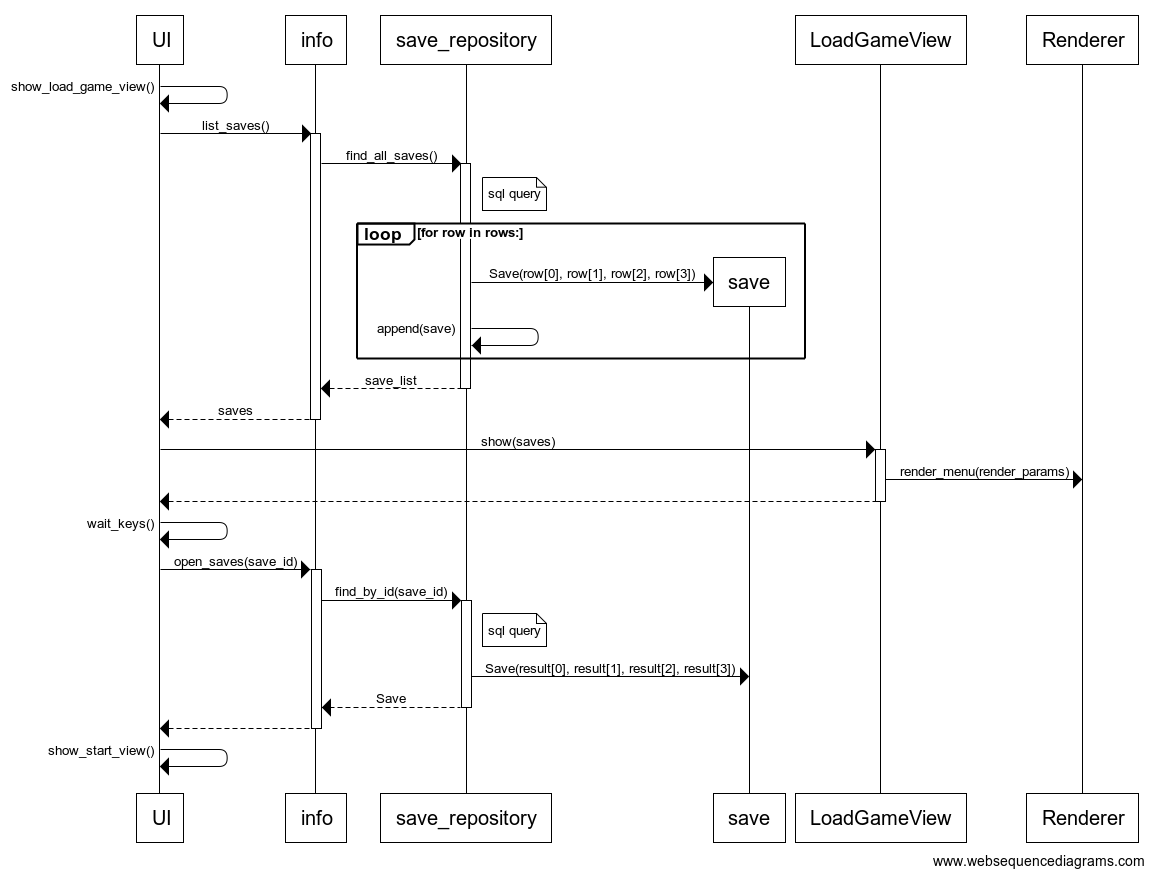
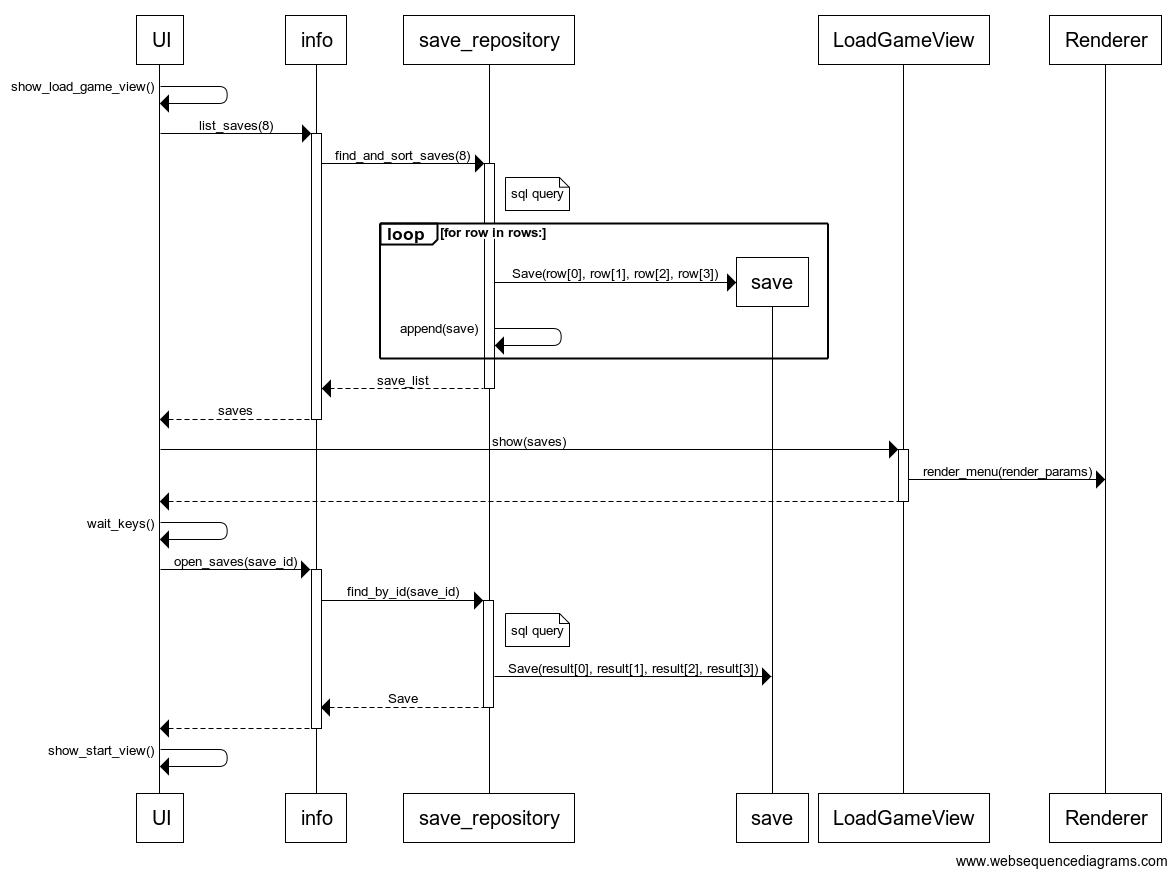
Update documentation

diff --git a/src/services/game_service.py b/src/services/game_service.py
@@ -46,7 +46,7 @@ class GameService:
 
 
         Args:
-            level (Level): Level object.
+            level (int): Level number
         """
 
         self.playing = True

diff --git a/dokumentaatio/arkkitehtuuri.md b/dokumentaatio/arkkitehtuuri.md
@@ -13,37 +13,55 @@ Ohjelman pakkausrakenne koostuu (Korjaa RenderService -nimi ja paranna kuvan laa
 
 ## UI
 
-Käyttöliittymä pitää sisällään seuraavat näkymät:
+Käyttöliittymästä vastaa paketti `ui`, joka pitää sisällään seuraavat näkymät:
 
 1. Aloitusvalikko `MenuView`
-2. Asetukset `SetupView` (työn alla)
+2. Asetukset `SetupView`
 3. Uuden pelin aloittamisnäkymä `NewGameView`
 4. Aiemman pelin latausnäkymä `LoadGameView`
 5. Pelin käynnistysnäkymä `StartView`
 6. Game Over näkymä `GameOverView`
 7. Level Completed näkymä `FinishView`
 
-Jokainen näistä on toteutettu omana luokkana. Näkymien näyttämisestä vastaa `UI` -luokka, joka käyttää apunaan näkymien piirtämisestä vastaavaa `Renderer` -luokkaa.
+Jokainen näistä on toteutettu omana luokkana. Näkymien näyttämisestä vastaa [UI](https://github.com/TopiasHarjunpaa/ot-harjoitustyo/blob/main/src/ui/ui.py) -luokka, joka käyttää apunaan näkymien piirtämisestä vastaavaa luokkaa [Renderer](https://github.com/TopiasHarjunpaa/ot-harjoitustyo/blob/main/src/ui/renderer.py).
+
 
 ## Sovelluslogiikka
 
-Sovelluslogiista vastaa paketti `Services`, joka pitää sisällään kolme päätehtävää:
+Sovelluslogiista vastaa paketti `services`, joka pitää sisällään kolme päätehtävää:
 
 1. Pelin ja tason toiminnallisuudet
 2. Tiedon välittämisen
 3. Äänen ja musiikin toistamisen.
 
-Pelin ja tason toiminnallisuuksista vastaavat luokat `GameService` sekä `LevelService`. Nämä huolehtivat pelitilanteen päivittämisestä sekä mahdollisesta pelin loppumisesta kuoleman tai maalin pääsemisen seurauksena.
+Pelin ja tason toiminnallisuuksista vastaavat luokat [GameService](https://github.com/TopiasHarjunpaa/ot-harjoitustyo/blob/main/src/services/game_service.py) sekä [LevelService](https://github.com/TopiasHarjunpaa/ot-harjoitustyo/blob/main/src/services/level_service.py). Nämä huolehtivat pelitilanteen päivittämisestä sekä mahdollisesta pelin loppumisesta kuoleman tai maalin pääsemisen seurauksena. Näiden keskeisiä toiminnallisuuksia ovat mm:
 
-Tiedon välittämisestä vastaa `InformationService` luokka, joka pääsee tietoihin käsiksi tallennuksesta vastaavan `SaveRepository` -luokan kautta.
+* GameService luokan `start_gameloop(level)`, joka käynnistää peliloopin, alustaa uuden taso-olion tasonumeron perusteella, seuraa pelaajan komentoja sekä taso-olion tilaa.
+* LevelService luokan `update()`, joka päivittää pelissä näytettävät objektit, ylläpitää pelitilannetta, laskee tasopisteitä sekä välittää tiedon pelin jatkumisesta `GameService` -luokalle.
+* LevelService luokan metodit `player_is_alive()`, `handle_jump()` sekä `handle_goal()`, jotka tarkastavat törmäyksiä eri objektien välillä sekä mahdollistavat oikeat toimenpiteet näiden perusteella.
 
-Äänen ja musiikin toistamisesta vastaa `AudioService` luokka, joka huolehtii oikean ääniefektin tai musiikin toistamisesta tilanteeseen sopivalla tavalla.
+Tiedon välittämisestä vastaa [InformationService](https://github.com/TopiasHarjunpaa/ot-harjoitustyo/blob/main/src/services/information_service.py) -luokka, joka pääsee tietoihin käsiksi tallennuksesta vastaavan `SaveRepository` -luokan kautta. `InformationService` tarjoaa käyttöliittymän `ui` -luokalle palvelut tiedon hakemista ja tallentamista varten. Keskeisiä toiminnallisuuksia ovat mm:
+
+* `create_new_save(nickname)`
+* `open_save(save_id)`
+* `update_save(progress, save_id)`
+* `get_progress_information()`
+* `list_saves(number_of_saves)`
+
+Äänen ja musiikin toistamisesta vastaa [AudioService](https://github.com/TopiasHarjunpaa/ot-harjoitustyo/blob/main/src/services/information_service.py) -luokka, joka huolehtii oikean ääniefektin tai musiikin toistamisesta tilanteeseen sopivalla tavalla. Keskeisiä toiminnallisuuksia ovat mm:
+
+* `play_music(index)`
+* `set_music_on()` sekä `set_music_off()`
+* `set_sound_effects_on()` sekä `set_sound_effects_off()`
+* `get_audio_information()`
 
 ## Tallennus
 
-Tiedon tallentamisesta ja hakemisesta SQLite-tietokannasta huolehtii `SaveRepository` luokka.
+Tiedon tallentamisesta ja hakemisesta SQLite-tietokannasta huolehtii [SaveRepository](https://github.com/TopiasHarjunpaa/ot-harjoitustyo/blob/main/src/repositories/save_repository.py) -luokka. Sovellus hyödyntää yhtä tietokohdetta `Save`, joka pitää sisällään sovelluksen kannalta tarvittavan informaation, kuten pelitallenteen nimimerkin, edistymisen sekä luomispäivämäärän. 
 
-## Päätoiminnallisuudet
+SQLite tietokannassa vastaava tietokohde tallennetaan tauluun nimeltä `saves`. Taulun luomisesta vastaa [initialize_database.py](https://github.com/TopiasHarjunpaa/ot-harjoitustyo/blob/main/src/initialize_database.py). `SaveRepository` -luokka huolehtii tietokantakyselyistä tähän tauluun sekä välittää tietoa eteenpäin `Save` -olioiden avulla sovelluslogiikan `InformationService`:lle.
+
+## Sovelluksen Päätoiminnallisuudet
 
 Ohjelman päätoiminnallisuudet kuvattuna sekvenssikaavioiden avulla:
 
@@ -53,7 +71,7 @@ Ohjelman alustaminen tapahtuu tiedostossa [index.py](https://github.com/TopiasHa
 
 <img src="https://github.com/TopiasHarjunpaa/ot-harjoitustyo/blob/main/dokumentaatio/kuvat/sekvenssi-ohjelman-alustaminen.png" width="1000">
 
-Luokkien alustaminen tapahtuu melko suoraviivaisesti.`InformationService` -luokan yhteydessä luodaan samalla tietokantayhteys sekä alustetaan `SaveRepository`, joka huolehtii tietokantakyselyistä pelin ainoaan tietokantatauluun liittyen. Peli käynnistyy kutsumalla `UI` -luokan metodia `start_menu()`.
+Luokkien alustaminen tapahtuu melko suoraviivaisesti. `InformationService` -luokan yhteydessä luodaan samalla tietokantayhteys sekä alustetaan `SaveRepository`, joka huolehtii tietokantakyselyistä pelin ainoaan tietokantatauluun liittyen. Peli käynnistyy kutsumalla `UI` -luokan metodia `start_menu()`.
 
 ### Peliluokkien alustaminen
 
@@ -61,7 +79,7 @@ Aiemmassa sekvenssikaaviossa kuvattiin ohjelman alustaminen sekä käynnistämin
 
 <img src="https://github.com/TopiasHarjunpaa/ot-harjoitustyo/blob/main/dokumentaatio/kuvat/sekvenssi-peliluokkien-alustaminen.png" width="1000">
 
-`LevelService` -luokan alustamiseen tarvitaan näytön mitat sekä tasonumero. Vapaaehtoisena parametrina voidaan antaa myös audioluokka.`LevelService` -luokka alustaa peliin liittyvät objektit luokan `Sprites` avulla. `Sprites` luo tasonumeron perusteella kyseiseen tasoon liittyvät objektit kuten lattian, esteet sekä pelihahmon. `GameService` -luokan alustamista varten `UI` välittää saamansa parametrit `InformationService`:ä lukuunottamatta.
+`LevelService` -luokan alustamiseen tarvitaan näytön mitat sekä tasonumero. Vapaaehtoisena parametrina voidaan antaa myös audioluokka. `LevelService` -luokka alustaa peliin liittyvät objektit luokan `Sprites` avulla. `Sprites` luo tasonumeron perusteella kyseiseen tasoon liittyvät objektit kuten lattian, esteet sekä pelihahmon. `GameService` -luokan alustamista varten `UI` välittää saamansa parametrit `InformationService`:ä lukuunottamatta.
 
 ### Menunäkymä
 
@@ -69,38 +87,72 @@ Ensimmäiseksi pelin käynnistämisen jälkeen näytetään menunäkymä. Tämä
 
 <img src="https://github.com/TopiasHarjunpaa/ot-harjoitustyo/blob/main/dokumentaatio/kuvat/sekvenssi-menu.png" width="1000">
 
-Aluksi pyydetään `AudioService` -luokkaa käynnistämään menunäkymän kappale (audioluokka on saanut audiotiedostojen polut alustamisen yhteydessä). Seuraavaksi haetaan TOP3 parhaat tulokset tietokannasta. `InformationService` kutsuu metodilla `find_all_saves()` tietokantakyselyjä tekevää `save_repository` -oliota hakemaan tulokset tietokannasta. Kolmesta parhaasta tuloksesta luodaan `Save` oliot ja palautetaan muuttujaan `records`. Seuraavaksi kutsutaan `MenuView` -luokan metodia `show()`, jolle annetaan parametrina aiemmin haetut tulokset. Tämän jälkeen `MenuView` -luokka erittelee tulokset ja kutsuu `Renderer` -luokan metodia `render_menu()`, joka lopulta renderöi menunäkymän ruudulle.
+Aluksi pyydetään `AudioService` -luokkaa käynnistämään menunäkymän kappale (audioluokka on saanut audiotiedostojen polut alustamisen yhteydessä). Seuraavaksi haetaan TOP3 parhaat tulokset tietokannasta. `InformationService` kutsuu metodilla `get_top_records(3)` tietokantakyselyjä tekevää `save_repository` -oliota hakemaan tulokset tietokannasta. Kolmesta parhaasta tuloksesta luodaan `Save` oliot ja palautetaan muuttujaan `records`. Seuraavaksi kutsutaan `MenuView` -luokan metodia `show()`, jolle annetaan parametrina aiemmin haetut tulokset. Tämän jälkeen `MenuView` -luokka erittelee tulokset ja kutsuu `Renderer` -luokan metodia `render_menu()`, joka lopulta renderöi menunäkymän ruudulle.
 
-Kun menunäkymä on ruudulla, niin jäädään odottamaan käyttäjän syötettä. Mikäli käyttäjä painaa näppäintä `n`, niin siirrytään näyttämään uusipeli -näkymä. Mikäli käyttäjä painaa näppäintä `l`, niin siirrytään näyttämään lataapeli -näkymä.
+Kun menunäkymä on ruudulla, niin jäädään odottamaan käyttäjän syötettä: 
+* Mikäli käyttäjä painaa näppäintä `n`, niin siirrytään näyttämään uusipeli -näkymä.
+* Mikäli käyttäjä painaa näppäintä `l`, niin siirrytään näyttämään lataapeli -näkymä.
+* Mikäli käyttäjä painaa näppäintä `s`, niin siirrytään näyttämään asetusnäkymä.
 
 ### Uusipeli -näkymä
 
-lisää tähän tekstiä...
+Uusipeli -näkymä aloitetaan kutsumulla `UI` -luokan metodia `show_new_game_view()`. Seuraava sekvenssikaavio esittää uusipeli -näkymän etenemisen:
 
 <img src="https://github.com/TopiasHarjunpaa/ot-harjoitustyo/blob/main/dokumentaatio/kuvat/sekvenssi-new.png" width="1000">
 
-lisää tähän tekstiä...
+Aluksi kutsutaan `NewGameView` -luokan metodia `show()`, jolle annetaan parametrina tyhjä nimimerkki (neljällä tähtimerkillä) sekä continue_textin väriksi harmaa väri. Tämän jälkeen `NewGameView` -luokka  kutsuu `Renderer` -luokan metodia `render_menu()`, joka renderöi uusipeli -näkymän ruudulle.
+
+Seuraavaksi odotetaan käyttäjän syötettä tallennustiedon nimimerkiksi. Kunkin syötetyn tai pyyhityn kirjaimen jälkeen näkymä renderöidään uudelleen yllä kuvatulla tavalla. Continue_textin valinta aktivoidaan ja sen väri muutetaan valkoiseksi, kun käyttäjä on syöttänyt kaikki nimimerkin neljäkirjainta.
+
+Tämän jälkeen luodaan uusi tallennustiedosta nimimerkin avulla `InformationService` -luokan `create_new_save(nickname)` -metodin avulla, joka edelleen kutsuu `save_repository` -oliota tekemään tallennuksen tietokantaan sekä palauttamaan tallennustiedon `Save` oliona.
+
+Lopuksi kutsutaan käynnistäpeli -näkymän metodia `show_start_view()`.
 
 ### Lataapeli -näkymä
 
-lisää tähän tekstiä...
+Lataapeli -näkymä aloitetaan kutsumulla `UI` -luokan metodia `show_load_game_view()`. Seuraava sekvenssikaavio esittää lataapeli -näkymän etenemisen:
 
 <img src="https://github.com/TopiasHarjunpaa/ot-harjoitustyo/blob/main/dokumentaatio/kuvat/sekvenssi-load.png" width="1000">
 
-lisää tähän tekstiä...
+Aluksi pyydetään `InformationService` -luokkaa hakemaan ja järjestämään 8 ensimmäista tallennusoliota parhaimman etenemisen perusteella. Tämä tapahtuu metodilla `list_saves(8)`, joka edelleen kutsuu `save_repository` -olion metodin `find_and_sort_saves(8)` avulla hakemaan tulokset tietokannasta. Tuloksena palautetaan lista `Save` olioita, jotka talletetaan muuttujaan `saves`. Seuraavaksi kutsutaan `LoadGameView` -luokan metodia `show()`, jolle annetaan parametrina aiemmin haetut tulokset. Tämän jälkeen `LoadGameView` -luokka erittelee tulokset ja kutsuu `Renderer` -luokan metodia `render_menu()`, joka lopulta renderöi lataapeli -näkymän ruudulle.
+
+Kun lataapeli -näkymä on ruudulla, niin jäädään odottamaan käyttäjän syötettä. Käyttäjä valitsee haluamansa tallennuksen, jonka jälkeen kyseinen tallennustiedosto haetaan tietokannasta ja palautetaan takaisin `Save` oliona `InformationService` -luokan sekä `save_repository` -olion avulla.
+
+Lopuksi kutsutaan käynnistäpeli -näkymän metodia `show_start_view()`.
+
+### Asetusnäkymä
+
+Asetusnäkymä aloitetaan kutsumulla `UI` -luokan metodia `show_setup_view()`. Asetusnäkymässä suoritetaan seuraavat toimenpiteet silmukassa, kunnes käyttäjä painaa `ESC` näppäintä, jolloin suoritus palaa takaisin Menunäkymään:
+
+1. Renderöidään asetusnäkymä ruudulle `Renderer` -luokan metodilla `render_menu()`
+2. Haetaan tieto siitä, onko musiikki sekä ääniefektit päällä `AudioService` -luokan metodilla `get_audio_information()`
+3. Odotetaan käyttäjältä syötettä, joka kertoo halutaanko muuttaa musiikin vai ääniefektin tilaan.
+4. Kytketään musiikki tai ääniefekti päällä tai pois päältä riippuen siitä, mikä aiempi tila oli kyseessä.
 
 ### Käynnistäpeli -näkymä
 
-lisää tähän tekstiä...
+Käynnistäpeli -näkymä aloitetaan kutsumulla `UI` -luokan metodia `show_start_view()`. Seuraava sekvenssikaavio esittää lataapeli -näkymän etenemisen:
 
 <img src="https://github.com/TopiasHarjunpaa/ot-harjoitustyo/blob/main/dokumentaatio/kuvat/sekvenssi-start.png" width="1000">
 
-lisää tähän tekstiä...
+Käynnistäpeli -näkymään voidaan päätyä uusipeli- tai lataapeli -näkymien kautta sekä lisäksi pelisession päättymisen jälkeen. Tästä syystä käynnistäpeli- näkymässä pyydetään aluksi `AudioService` -luokan metodia `play_music()` käynnistämään menunäkymän kappale. Kyseinen metodi ei tee mitään, mikäli menunäkymän kappale on jo käynnissä eli kyseinen musiikin uudelleen toistaminen aloitetaan vain, jos siirtyminen näkymään tapahtuu pelisession päättymisen jälkeen.
+
+Seuraavaksi haetaan aktiivisen tallennustiedon edistymistieto `InformationService` -luokan metodilla `get_progress_information()`, joka edelleen hakee tiedon oman `Save` -attribuuttinsa metodilla `get_information()` ja palauttaa takaisin käyttöliittymään. Tämän jälkeen kutsutaan `StartView` -luokan metodia `show()`, jolle annetaan parametrina aiemmin haetut tulokset. Sitten `StartView` -luokka erittelee tulokset ja kutsuu `Renderer` -luokan metodia `render_menu()`, joka lopulta renderöi käynnistäpeli -näkymän ruudulle.
+
+Kun käynnistäpeli -näkymä on ruudulla, niin jäädään odottamaan käyttäjän syötettä, jonka tarkoituksena saadaan tieto pelitasosta. Käyttäjä valitsee haluamansa tason, jonka jälkeen kyseinen tieto välitetään `GameService` -luokan metodille `start_gameloop(level)`. Tämä käynnistää peliloopin ja pelaaminen voi alkaa.
 
 ### Pelin eteneminen
 
 lisää puuttuva sekvenssikaavio ja tekstiä...
 
-## Puutteet
+### Level Completed näkymä
 
-Placeholder...
+Level Completed näkymä aloitetaan kutsumalla `UI` -luokan metodia `show_finish_view()`. Tämä tapahtuu silloin, Kun pelaaja on läpäissyt tason. Ensimmäiseksi pyydetään `AudioService` -luokkaa käynnistämään menunäkymän kappale. Seuraavaksi haetaan aktiivisen tallennustiedon edistymistieto `InformationService` -luokan metodilla `get_progress_information()`, joka edelleen hakee tiedon oman `Save` -attribuuttinsa metodilla `get_information()` ja palauttaa takaisin käyttöliittymään. Tason suorittaminen päivitetään tietokantaan, mikäli kyseistä tasoa ei ollut vielä aikaisemmin läpäisty.
+
+Tämän jälkeen kutsutaan `FinishView` -luokan metodia `show()`, jolle annetaan parametrina aiemmin haetut tulokset sekä suoritetun tason numero. Sitten `FinishView` -luokka erittelee tulokset ja kutsuu `Renderer` -luokan metodia `render_menu()`, joka lopulta renderöi Level Completed näkymän ruudulle.
+
+Lopuksi odotetaan käyttäjän syötettä ja palataan takaisin menunäkymään tai käynnistäpeli -näkymään pelin jatkamista varten.
+
+### Game Over näkymä
+
+Game over näkymä toimii samalla periaatteella kuin Level Completed näkymä. Keskeisenä erona on ainoastaan se, että `InformationService` -luokan avulla haettua tietoa vertaillaan `LevelService` -luokan ylläpitämään edellisen pelisession edistymiseen, jonka avulla tietokanta päivitetään, mikäli edellisen pelisession tulos on tietokannassa olevaa tulosta parempi.

diff --git a/dokumentaatio/vaatimusmaarittely.md b/dokumentaatio/vaatimusmaarittely.md
@@ -16,10 +16,10 @@ Kun kaikki toiminnallisuudet yllä ovat valmiita:
 2. Päivitä asennusohje ja kuvankaappaukset (lisää puuttuva setup) [Done]
 
 3. Päivitä lopullinen luokka ja pakkauskaavio
-4. Päivitä arkkitehtuurikuvaus (puuttuvia osioita)
+4. Päivitä arkkitehtuurikuvaus (puuttuvia osioita) [Luo vielä pelisession sekvenssikaavio]
 
 5. Luo testausdokumentti. [Done]
-6. Tarkasta README ja lisää ainakin creditit (musa, fontti yms.).
+6. Tarkasta README ja lisää ainakin creditit (musa, fontti yms.). [Done]
 7. Lue vielä kertaalleen arvosteluperusteet.
 8. Viimeinen koodin tarkastus (tyylitarkistus, testit sekä visuaalinen tsekki)
 9. Luo uusi release ja lisää linkki sekä README ja käyttöohje.

diff --git a/README.md b/README.md
@@ -69,5 +69,18 @@ Käyttöliittymään ja testeihin liittyvä koodi on jätetty pois laatutarkastu
 
 ## Credits
 
-Placeholder...
-Lisää fontit, musiikki yms...
+Fontti:
+* Ladattu osoitteesta [dafont](https://www.dafont.com/no-virus.font)
+* Tekijä **Khurasan**
+
+Musiikki:
+* Ladattu osoitteesta [OpenGameArt](https://opengameart.org/content/5-chiptunes-action)
+* Tekijä **Juhani Junkala**
+
+Ääniefektit:
+* Luotu työkalulla [Bfxr](https://www.bfxr.net/)
+
+Taustakuvat:
+* Luotu [Enscape](https://enscape3d.com/)
+
+

diff --git a/dokumentaatio/tuntikirjanpito.md b/dokumentaatio/tuntikirjanpito.md
@@ -39,4 +39,5 @@
 | 9.5  | 2   | Ympäristömuuttujien sekä taustakuvien lisääminen |
 | 9.5  | 2   | Ylimääräisten muuttujien poistaminen sekä luokan sisäisten attribuuttien nimeäminen |
 | 10.5 | 3   | Dokumentaation päivittäminen (käyttöohje ja testaus) sekä pieniä korjauksia |
-| yht   | 84    | | 
+| 11.5 | 3   | Dokumentaation päivittäminen (arkkitehtuurikuvaus, sekvenssikaaviot ja README) |
+| yht   | 87    | | 
